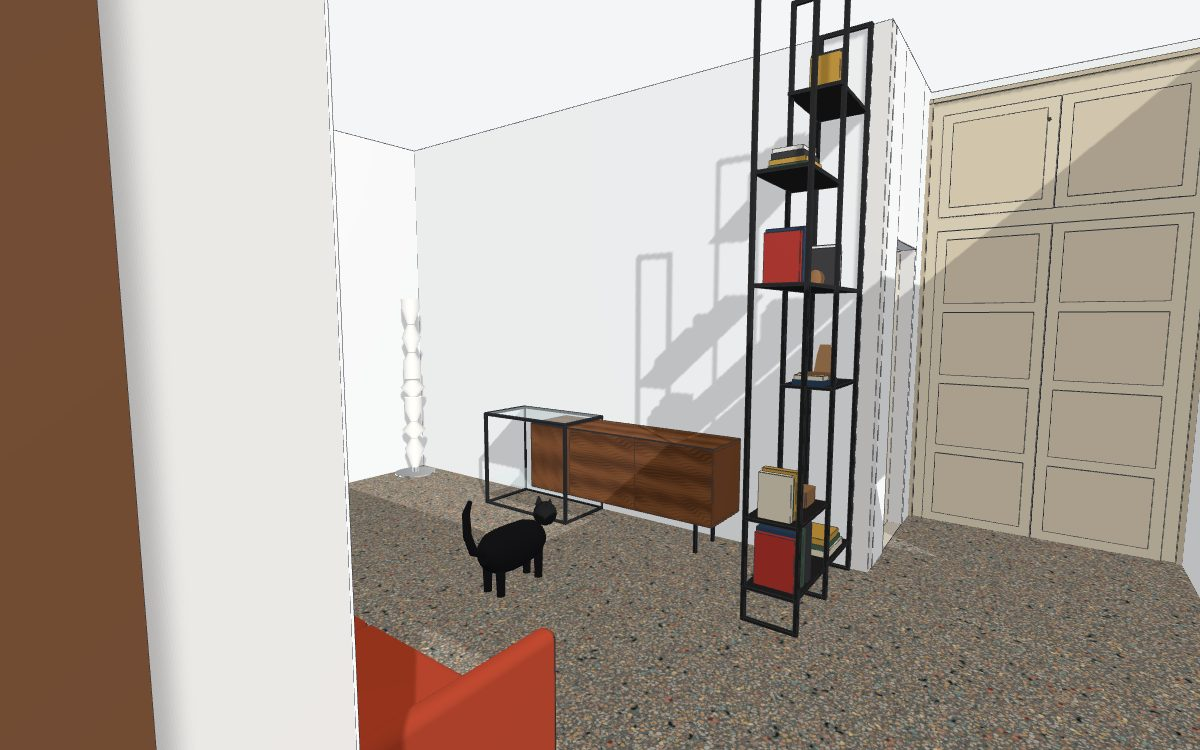
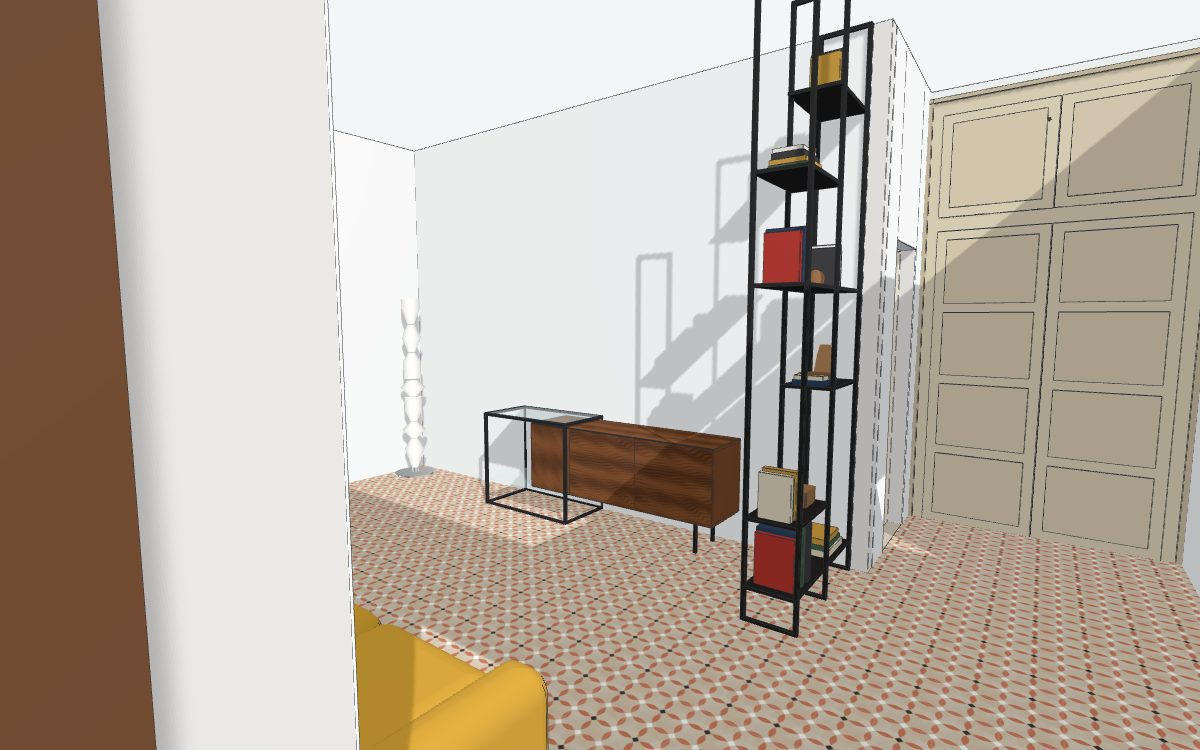
La Redoute sofa bed in mustard yellow as in the photos, open state from the shop photo; Save positions never reuses a cached sha
Claude-Session: https://claude.ai/code/session_017Czcnh6xzZxgGSwco7M1Pu

Changed region(s): [[0.2775, 0.6133, 1.0, 1.0]]

diff --git a/projects/casa-poggi/house.js b/projects/casa-poggi/house.js
@@ -358,13 +358,15 @@ const balcony = (n, x0, x1, y0, y1, side) => {
     });
   }
 
-  // La Redoute sofa bed, cinnamon corduroy, 168 x 100 x 82 cm, seat 49 (product drawing); open = a 168 x 200 bed.
+  // La Redoute sofa bed, mustard-yellow corduroy (as in the shop photos; the shop calls the colour "cannella"), 168 x 100 x 82 cm,
+  // seat 49 (product drawing). Open (shop photo): arms and back stay, a white mattress on a grey steel frame folds out, 168 x 200 in all.
   // Two groups, closed and open, with "alt" pointing at each other: select the sofa and press L to switch. Both use the
-  // same path and first word ("Divano"), so they share the moved offset   open-bed construction estimate (no photo available here)
-  { const W = 168, { B, R } = sofa(YC - W / 2), C = [166, 96, 56, 255], C2 = [150, 84, 48, 255], FT = [30, 28, 26, 255];
+  // same path and first word ("Divano"), so they share the moved offset   mattress thickness and frame estimate
+  { const W = 168, { B, R, T } = sofa(YC - W / 2), C = [204, 156, 52, 255], C2 = [182, 136, 42, 255], FT = [30, 28, 26, 255];
+    const MT = [238, 238, 234, 255], GR = [90, 92, 96, 255], WH = [246, 246, 244, 255];
     const feet = (n, d) => { for (const [u, v] of [[8, 8], [W - 8, 8], [8, d - 8], [W - 8, d - 8]]) B(`/Divano_Redoute/Divano_${n}_Piede_${u < W / 2 ? 'Sx' : 'Dx'}${v < 50 ? 'Retro' : 'Fronte'}`, FT, u - 2.5, u + 2.5, v - 2.5, v + 2.5, 0, 5); };
-    defGroup('divano-redoute', 'Divano letto La Redoute 168 (cannella) – chiuso', 'Arredi', 'divano', { alt: 'divano-redoute-aperto' });
-    defGroup('divano-redoute-aperto', 'Divano letto La Redoute 168 (cannella) – aperto', 'Arredi', 'divano', { alt: 'divano-redoute' });
+    defGroup('divano-redoute', 'Divano letto La Redoute 168 (giallo senape) – chiuso', 'Arredi', 'divano', { alt: 'divano-redoute-aperto' });
+    defGroup('divano-redoute-aperto', 'Divano letto La Redoute 168 (giallo senape) – aperto', 'Arredi', 'divano', { alt: 'divano-redoute' });
     group('divano-redoute', () => {                 // proportions from the La Redoute front photo: low base, thick seat cushions overhanging the front, armrests ~58 cm
       feet('Chiuso', 100);
       R('/Divano_Redoute/Divano_Base', C2, 18, W - 18, 0, 95, 5, 27, 5, 4);
@@ -377,11 +379,18 @@ const balcony = (n, x0, x1, y0, y1, side) => {
       R('/Divano_Redoute/Divano_Cuscino_Dx', C, W / 2 + 1, W - 20, 4, 30, 44, 80, 8, 11);
     });
     group('divano-redoute-aperto', () => {
-      feet('Aperto', 200);
-      R('/Divano_Redoute/Divano_Telaio_Letto', C2, 0, W, 0, 200, 5, 30, 4, 3);
-      R('/Divano_Redoute/Divano_Materasso', C, 1, W - 1, 1, 199, 30, 45, 6, 6);
-      R('/Divano_Redoute/Divano_Guanciale_Sx', [236, 228, 214, 255], 10, W / 2 - 4, 6, 46, 45, 55, 6, 5);
-      R('/Divano_Redoute/Divano_Guanciale_Dx', [236, 228, 214, 255], W / 2 + 4, W - 10, 6, 46, 45, 55, 6, 5);
+      for (const [u, v] of [[8, 8], [W - 8, 8], [8, 92], [W - 8, 92]]) B(`/Divano_Redoute/Divano_Aperto_Piede_${u < W / 2 ? 'Sx' : 'Dx'}${v < 50 ? 'Retro' : 'Fronte'}`, FT, u - 2.5, u + 2.5, v - 2.5, v + 2.5, 0, 5);
+      R('/Divano_Redoute/Divano_Aperto_Bracciolo_Sx', C, 0, 19, 0, 100, 5, 58, 7, 9, 4);
+      R('/Divano_Redoute/Divano_Aperto_Bracciolo_Dx', C, W - 19, W, 0, 100, 5, 58, 7, 9, 4);
+      R('/Divano_Redoute/Divano_Aperto_Schienale', C2, 19, W - 19, 0, 16, 5, 56, 4, 6);
+      R('/Divano_Redoute/Divano_Aperto_Cuscini', C2, 19, W - 19, 16, 100, 5, 16, 4, 3);     // the folded seat cushions under the frame
+      B('/Divano_Redoute/Divano_Telaio_Sx', GR, 20, 22, 16, 200, 26, 30);                  // grey steel frame
+      B('/Divano_Redoute/Divano_Telaio_Dx', GR, W - 22, W - 20, 16, 200, 26, 30);
+      T('/Divano_Redoute/Divano_Telaio_Gambe', GR, [[24, 196, 30], [24, 196, 1], [W - 24, 196, 1], [W - 24, 196, 30]], [1, 1, 1, 1]);
+      T('/Divano_Redoute/Divano_Telaio_Gambe_Medie', GR, [[24, 140, 26], [24, 140, 1], [W - 24, 140, 1], [W - 24, 140, 26]], [1, 1, 1, 1]);
+      R('/Divano_Redoute/Divano_Materasso', MT, 20, W - 20, 16, 200, 30, 42, 3, 3);
+      R('/Divano_Redoute/Divano_Guanciale_Sx', WH, 26, W / 2 - 3, 18, 56, 42, 54, 8, 6);
+      R('/Divano_Redoute/Divano_Guanciale_Dx', WH, W / 2 + 3, W - 26, 18, 56, 42, 54, 8, 6);
     });
   }
 }

diff --git a/public/viewer.html b/public/viewer.html
@@ -463,7 +463,7 @@ async function publishMoved() {
   const body = JSON.stringify(Object.assign(JSON.parse(mvJSON(moved)), { _groups: groupsNow }), null, 1) + '\n';   // positions + the groups switched on now
   btn.disabled = true;
   try {
-    const cur = await fetch(api + '?ref=main', { headers: h });
+    const cur = await fetch(api + '?ref=main&t=' + Date.now(), { headers: h, cache: 'no-store' });   // never a cached sha: a second save within a minute was refused (409) with a cached one
     if (cur.status === 401) throw new Error('401');
     const sha = cur.ok ? (await cur.json()).sha : undefined;
     const r = await fetch(api, { method: 'PUT', headers: h, body: JSON.stringify({ message: `${id}: furniture positions`, branch: 'main', sha,
